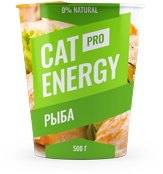
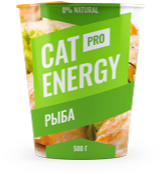
добавляет Адаптивную графику

diff --git a/source/catalog.html b/source/catalog.html
@@ -21,7 +21,7 @@
       <div class="main-nav__wrapper">
         <ul class="main-nav__list site-list">
           <li class="site-list__item">
-            <a href="#">Главная</a>
+            <a href="index.html">Главная</a>
           </li>
           <li class="site-list__item site-list__item--current">
             <a href="#">Каталог продукции</a>
@@ -44,7 +44,10 @@
 
           <li class="cards__item">
             <a class="cards__link" href="product1.html">
-              <img class="cards__link-image" src="images/catalog/catalog-food-1.png" width="161" height="172" alt="Cat Energy PRO 500 г со вкусом курицы">
+              <picture>
+                <source media="(min-width: 768px)" width="161" height="172" type="image/png" srcset="images/catalog/catalog-food-tablet-1.png 1x, images/catalog/catalog-food-tablet-1@2x.png 2x">
+                <img class="cards__link-image" src="images/catalog/catalog-food-phone-1.png" width="68" height="86" srcset="images/catalog/catalog-food-phone-1@2x.png 2x" alt="Cat Energy PRO 500 г со вкусом курицы">
+              </picture>
             </a>
             <div class="cards__text">
               <a class="cards__link-text" href="product1.html">
@@ -63,8 +66,11 @@
           </li>
           <li class="cards__item">
             <a class="cards__link" href="product2.html">
-              <img class="cards__link-image" src="images/catalog/catalog-food-2.png" width="172" height="196" alt="Cat Energy PRO
-              1000 г со вкусом курицы">
+              <picture>
+                <source media="(min-width: 768px)" width="168" height="206" type="image/png" srcset="images/catalog/catalog-food-tablet-2.png 1x, images/catalog/catalog-food-tablet-2@2x.png 2x">
+                <img class="cards__link-image" src="images/catalog/catalog-food-phone-2.png" width="84" height="100" srcset="images/catalog/catalog-food-phone-2@2x.png 2x" alt="Cat Energy PRO
+                1000 г со вкусом курицы">
+              </picture>
             </a>
             <div class="cards__text">
               <a class="cards__link-text" href="product2.html">
@@ -84,7 +90,10 @@
           </li>
           <li class="cards__item">
             <a class="cards__link" href="product3.html">
-              <img class="cards__link-image" src="images/catalog/catalog-food-3.png" width="163" height="174" alt="Cat Energy PRO 500 г со вкусом рыбы">
+              <picture>
+                <source media="(min-width: 768px)" width="163" height="174" type="image/png" srcset="images/catalog/catalog-food-tablet-3.png 1x, images/catalog/catalog-food-tablet-3@2x.png 2x">
+                <img class="cards__link-image" src="images/catalog/catalog-food-phone-3.png" width="68" height="78" srcset="images/catalog/catalog-food-phone-3@2x.png 2x" alt="Cat Energy PRO 500 г со вкусом рыбы">
+              </picture>
             </a>
             <div class="cards__text">
               <a class="cards__link-text" href="product3.html">
@@ -103,7 +112,10 @@
           </li>
           <li class="cards__item">
             <a class="cards__link" href="product4.html">
-              <img class="cards__link-image" src="images/catalog/catalog-food-4.png" width="172" height="196" alt="Cat Energy PRO 1000 г со вкусом рыбы">
+              <picture>
+                <source media="(min-width: 768px)" width="168" height="200" type="image/png" srcset="images/catalog/catalog-food-tablet-4.png 1x, images/catalog/catalog-food-tablet-4@2x.png 2x">
+                <img class="cards__link-image" src="images/catalog/catalog-food-phone-4.png" width="84" height="100" srcset="images/catalog/catalog-food-phone-4@2x.png 2x" alt="Cat Energy PRO 1000 г со вкусом рыбы">
+              </picture>
             </a>
             <div class="cards__text">
               <a class="cards__link-text" href="product4.html">
@@ -123,7 +135,10 @@
           </li>
           <li class="cards__item">
             <a class="cards__link" href="product5.html">
-              <img class="cards__link-image" src="images/catalog/catalog-food-5.png" width="161" height="171" alt="Cat Energy SLIM 500 г с гречкой">
+              <picture>
+                <source media="(min-width: 768px)" width="161" height="171" type="image/png" srcset="images/catalog/catalog-food-tablet-5.png 1x, images/catalog/catalog-food-tablet-5@2x.png 2x">
+                <img class="cards__link-image" src="images/catalog/catalog-food-phone-5.png" width="68" height="78" srcset="images/catalog/catalog-food-phone-5@2x.png 2x" alt="Cat Energy SLIM 500 г с гречкой">
+              </picture>
             </a>
             <div class="cards__text">
               <a class="cards__link-text" href="product5.html">
@@ -142,7 +157,10 @@
           </li>
           <li class="cards__item">
             <a class="cards__link" href="product6.html">
-              <img class="cards__link-image" src="images/catalog/catalog-food-6.png" width="172" height="196" alt="Cat Energy SLIM 1000 г с гречкой">
+              <picture>
+                <source media="(min-width: 768px)" width="168" height="200" type="image/png" srcset="images/catalog/catalog-food-tablet-6.png 1x, images/catalog/catalog-food-tablet-6@2x.png 2x">
+                <img class="cards__link-image" src="images/catalog/catalog-food-phone-6.png" width="84" height="100" srcset="images/catalog/catalog-food-phone-6@2x.png 2x" alt="Cat Energy SLIM 1000 г с гречкой">
+              </picture>
             </a>
             <div class="cards__text">
               <a class="cards__link-text" href="product6.html">
@@ -161,7 +179,10 @@
           </li>
           <li class="cards__item">
             <a class="cards__link" href="product7.html">
-              <img class="cards__link-image" src="images/catalog/catalog-food-7.png" width="161" height="172" alt="Cat Energy SLIM 500 г с рисом">
+              <picture>
+                <source media="(min-width: 768px)" width="163" height="174" type="image/png" srcset="images/catalog/catalog-food-tablet-7.png 1x, images/catalog/catalog-food-tablet-7@2x.png 2x">
+                <img class="cards__link-image" src="images/catalog/catalog-food-phone-7.png" width="72" height="84" srcset="images/catalog/catalog-food-phone-7@2x.png 2x" alt="Cat Energy SLIM 500 г с рисом">
+              </picture>
             </a>
             <div class="cards__text">
               <a class="cards__link-text" href="product7.html">
@@ -265,7 +286,7 @@
           <picture>
             <source media="(min-width: 1200px)" width="1440" height="400" type="image/jpg" srcset="images/map-desktop.jpg 1x, images/map-desktop@2x.jpg 2x">
             <source media="(min-width: 768px)" width="768" height="400" type="image/jpg" srcset="images/map-tablet.jpg 1x, images/map-tablet@2x.jpg 2x">
-            <img class="promo__image" src="images/map-phone.jpg" width="320" height="362" srcset="image/map-phone@2x.jpg 2x" alt="Расположение магазина на карте">
+            <img class="contacts__image" src="images/map-phone.jpg" width="320" height="362" srcset="images/map-phone@2x.jpg 2x" alt="Расположение магазина на карте">
           </picture>
         </p>
       </div>

diff --git a/source/index.html b/source/index.html
@@ -43,7 +43,7 @@
           <picture>
             <source media="(min-width: 1200px)" width="552" height="499" type="image/png" srcset="images/promo-food-can-desktop.png 1x, images/promo-food-can-desktop@2x.png 2x">
             <source media="(min-width: 768px)" width="709" height="609" type="image/png" srcset="images/promo-food-can-tablet.png 1x, images/promo-food-can-tablet@2x.png 2x">
-            <img class="promo__image" src="images/promo-food-can-phone.png" width="280" height="270" srcset="image/promo-food-can-phone@2x.png 2x" alt="Большая упаковка еды для котов с курицей">
+            <img class="promo__image" src="images/promo-food-can-phone.png" width="280" height="270" srcset="images/promo-food-can-phone@2x.png 2x" alt="Большая упаковка еды для котов с курицей">
           </picture>
         </p>
         <a class="promo__link button" href="form.html">Подобрать программу</a>
@@ -118,13 +118,13 @@
       <p class="example__image-slim-wrapper">
         <picture>
           <source media="(min-width: 768px)" width="560" height="512" type="image/jpg" srcset="images/slim-cat-tablet.jpg 1x, images/slim-cat-tablet@2x.jpg 2x">
-          <img class="example__image--slim" src="images/slim-cat-phone.jpg" width="280" height="256" srcset="image/slim-cat-phone@2x.jpg 2x" alt="Худой кот">
+          <img class="example__slim" src="images/slim-cat-phone.jpg" width="280" height="256" srcset="images/slim-cat-phone@2x.jpg 2x" alt="Худой кот">
         </picture>
       </p>
       <p class="example__image-fat-wrapper">
         <picture>
           <source media="(min-width: 768px)" width="560" height="512" type="image/jpg" srcset="images/fat-cat-tablet.jpg 1x, images/fat-cat-tablet@2x.jpg 2x">
-          <img class="example__image--fat" src="images/fat-cat-phone.jpg" width="280" height="256" srcset="image/fat-cat-phone@2x.jpg 2x" alt="Худой кот">
+          <img class="example__fat" src="images/fat-cat-phone.jpg" width="280" height="256" srcset="images/fat-cat-phone@2x.jpg 2x" alt="Худой кот">
         </picture>
       </p>
     </section>
@@ -140,7 +140,7 @@
           <picture>
             <source media="(min-width: 1200px)" width="1440" height="400" type="image/jpg" srcset="images/map-desktop.jpg 1x, images/map-desktop@2x.jpg 2x">
             <source media="(min-width: 768px)" width="768" height="400" type="image/jpg" srcset="images/map-tablet.jpg 1x, images/map-tablet@2x.jpg 2x">
-            <img class="promo__image" src="images/map-phone.jpg" width="320" height="362" srcset="image/map-phone@2x.jpg 2x" alt="Расположение магазина на карте">
+            <img class="contacts__image" src="images/map-phone.jpg" width="320" height="362" srcset="images/map-phone@2x.jpg 2x" alt="Расположение магазина на карте">
           </picture>
         </p>
       </div>
